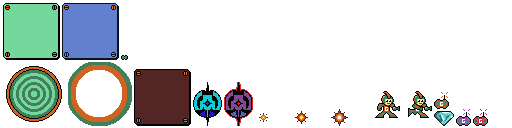
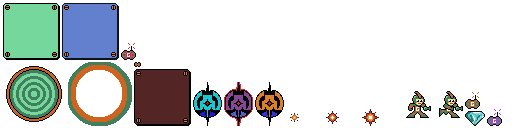
Add ranged enemy type

Changed region(s): [[0.5, 0.6562, 1.0, 1.0], [0.2188, 0.375, 0.2812, 0.5312]]

diff --git a/core/src/main/java/com/sixmoney/gigagal/entities/Enemy.java b/core/src/main/java/com/sixmoney/gigagal/entities/Enemy.java
@@ -6,6 +6,7 @@ import com.badlogic.gdx.math.MathUtils;
 import com.badlogic.gdx.math.Rectangle;
 import com.badlogic.gdx.math.Vector2;
 import com.badlogic.gdx.utils.TimeUtils;
+import com.sixmoney.gigagal.Level;
 import com.sixmoney.gigagal.utils.Assets;
 import com.sixmoney.gigagal.utils.Constants;
 import com.sixmoney.gigagal.utils.Enums.*;
@@ -24,12 +25,16 @@ public class Enemy {
     protected float speed;
     protected float speedCharge;
     protected boolean charging;
+    protected boolean ranged;
+    protected Level level;
+    protected long shootStartTime;
 
     public Vector2 position;
     public Rectangle enemy_bounding_box;
 
-    public Enemy(Platform platform) {
+    public Enemy(Platform platform, Level level) {
         this.platform = platform;
+        this.level = level;
         position = new Vector2(MathUtils.random(platform.left, platform.left + platform.width), platform.top + Constants.ENEMY_CENTER_POS.y);
         if (MathUtils.randomBoolean()) {
             direction = Direction.LEFT;
@@ -38,10 +43,12 @@ public class Enemy {
         }
         start_time = TimeUtils.nanoTime();
         this.health = Constants.ENEMY_HEALTH;
+        ranged = false;
         random_phase = MathUtils.random();
         charging = false;
         speed = MathUtils.random(Constants.ENEMY_SPEED, Constants.ENEMY_SPEED * 1.5f);
         speedCharge = Constants.ENEMY_SPEED_CHARGE;
+        shootStartTime = TimeUtils.nanoTime();
         enemy_bounding_box = new Rectangle(
                 position.x - Constants.ENEMY_COLLISION_RADIUS,
                 position.y - Constants.ENEMY_COLLISION_RADIUS,
@@ -60,17 +67,24 @@ public class Enemy {
 
     public void update(float delta) {
         if (platform.hasPlayer) {
-            charging = true;
-            float move_distance = delta * speedCharge;
-            if (platform.playerPosition < position.x - platform.left) {
-                direction = Direction.LEFT;
+            if (ranged) {
+                if (Utils.secondsSince(shootStartTime) > Constants.LAZER_SHOOT_DELAY) {
+                    shootStartTime = TimeUtils.nanoTime();
+                    shoot();
+                }
             } else {
-                direction = Direction.RIGHT;
-            }
-            if (direction == Direction.LEFT) {
-                position.x -= move_distance;
-            } else {
-                position.x += move_distance;
+                charging = true;
+                float move_distance = delta * speedCharge;
+                if (platform.playerPosition < position.x - platform.left) {
+                    direction = Direction.LEFT;
+                } else {
+                    direction = Direction.RIGHT;
+                }
+                if (direction == Direction.LEFT) {
+                    position.x -= move_distance;
+                } else {
+                    position.x += move_distance;
+                }
             }
         } else {
             charging = false;
@@ -115,5 +129,8 @@ public class Enemy {
                 enemy_bounding_box.width,
                 enemy_bounding_box.height
         );
+    }
+
+    public void shoot() {
     }
 }

diff --git a/core/src/main/java/com/sixmoney/gigagal/entities/EnemyRanged.java b/core/src/main/java/com/sixmoney/gigagal/entities/EnemyRanged.java
@@ -1,0 +1,37 @@
+package com.sixmoney.gigagal.entities;
+
+import com.badlogic.gdx.graphics.g2d.SpriteBatch;
+import com.badlogic.gdx.math.Vector2;
+import com.sixmoney.gigagal.Level;
+import com.sixmoney.gigagal.utils.Assets;
+import com.sixmoney.gigagal.utils.Constants;
+import com.sixmoney.gigagal.utils.Enums;
+import com.sixmoney.gigagal.utils.Utils;
+
+public class EnemyRanged extends Enemy {
+    public EnemyRanged(Platform platform, Level level) {
+        super(platform, level);
+        ranged = true;
+    }
+
+    public void render(SpriteBatch spriteBatch) {
+        if (charging && direction == Enums.Direction.LEFT) {
+            Utils.drawTextureRegion(spriteBatch, Assets.get_instance().enemyAssets.enemy3, position.x - Constants.ENEMY_CENTER_POS.x, position.y - Constants.ENEMY_CENTER_POS.y, 30);
+        } else if (charging && direction == Enums.Direction.RIGHT) {
+            Utils.drawTextureRegion(spriteBatch, Assets.get_instance().enemyAssets.enemy3, position.x - Constants.ENEMY_CENTER_POS.x, position.y - Constants.ENEMY_CENTER_POS.y, -30);
+        } else {
+            Utils.drawTextureRegion(spriteBatch, Assets.get_instance().enemyAssets.enemy3, position.x - Constants.ENEMY_CENTER_POS.x, position.y - Constants.ENEMY_CENTER_POS.y);
+        }
+    }
+
+    @Override
+    public void shoot() {
+        Enums.Direction shootDirection;
+        if (platform.playerPosition < position.x - platform.left) {
+             shootDirection = Enums.Direction.LEFT;
+        } else {
+            shootDirection = Enums.Direction.RIGHT;
+        }
+        level.getBullets().add(new Lazer(level, new Vector2(position.x, position.y - Constants.ENEMY_CENTER_POS.y / 2), shootDirection));
+    }
+}

diff --git a/core/src/main/java/com/sixmoney/gigagal/entities/Lazer.java b/core/src/main/java/com/sixmoney/gigagal/entities/Lazer.java
@@ -1,0 +1,47 @@
+package com.sixmoney.gigagal.entities;
+
+import com.badlogic.gdx.graphics.g2d.SpriteBatch;
+import com.badlogic.gdx.math.Vector2;
+import com.badlogic.gdx.math.Vector3;
+import com.sixmoney.gigagal.Level;
+import com.sixmoney.gigagal.utils.Assets;
+import com.sixmoney.gigagal.utils.Constants;
+import com.sixmoney.gigagal.utils.Enums;
+
+public class Lazer extends Bullet {
+    public Lazer(Level level, Vector2 position, Enums.Direction direction) {
+        super(level, position, direction);
+        damage = 1;
+    }
+
+    @Override
+    public void update(float delta) {
+        float movement_amount = delta * Constants.BULLET_SPEED;
+
+        if (direction == Enums.Direction.LEFT) {
+            position.x -= movement_amount;
+        } else {
+            position.x += movement_amount;
+        }
+
+
+        Vector2 bullet_center = new Vector2(position.x + Constants.BULLET_CENTER.x, position.y + Constants.BULLET_CENTER.y);
+        if (bullet_center.dst(level.gigaGal.position) < Constants.GIGAGAL_STANCE_WIDTH) {
+            playExplosion();
+            add_explosion(bullet_center);
+            active = false;
+            level.gigaGal.kill();
+        }
+
+        float viewport_width = level.getViewport().getWorldWidth();
+        Vector3 viewport_position = level.getViewport().getCamera().position;
+
+        if (position.x < viewport_position.x - viewport_width / 2 || position.x > viewport_position.x + viewport_width / 2) {
+            active = false;
+        }
+    }
+
+    public void render(SpriteBatch spriteBatch) {
+        spriteBatch.draw(Assets.get_instance().bulletAssets.lazer, position.x, position.y - Constants.BULLET_CENTER.y);
+    }
+}

diff --git a/core/src/main/java/com/sixmoney/gigagal/utils/Constants.java b/core/src/main/java/com/sixmoney/gigagal/utils/Constants.java
@@ -35,9 +35,11 @@ public class Constants {
     public static final String PLATFORM_MEDIUM = "platform-medium";
     public static final String ENEMY = "enemy";
     public static final String ENEMY2 = "enemy2";
+    public static final String ENEMY3 = "enemy3";
     public static final String BULLET = "bullet";
     public static final String BULLET2 = "bullet2";
     public static final String BULLET3 = "bullet3";
+    public static final String LAZER = "lazer";
     public static final String EXPLOSION_LARGE = "explosion-large";
     public static final String EXPLOSION_LARGER = "explosion-larger";
     public static final String EXPLOSION_LARGEST = "explosion-largest";
@@ -89,6 +91,7 @@ public class Constants {
     // bullet
     public static final Vector2 BULLET_CENTER = new Vector2(3, 2);
     public static final float BULLET_SPEED = 150f;
+    public static final float LAZER_SHOOT_DELAY = 0.6f;
 
     // explosions
     public static final Vector2 EXPLOSION_CENTER = new Vector2(14, 14);
@@ -123,6 +126,7 @@ public class Constants {
     public static final String LEVEL_IDENTIFIER_KEY = "itemIdentifier";
     public static final String LEVEL_ENEMY_TAG = "Enemy";
     public static final String LEVEL_ENEMY_BIG_TAG = "BigEnemy";
+    public static final String LEVEL_ENEMY_RANGED_TAG = "RangedEnemy";
     public static final String LEVEL_KILLPLANE_TAG = "Killplane";
     public static final int LEVEL_1 = 1;
     public static final int LEVEL_2 = 2;

diff --git a/core/src/main/java/com/sixmoney/gigagal/utils/LevelLoader.java b/core/src/main/java/com/sixmoney/gigagal/utils/LevelLoader.java
@@ -9,6 +9,7 @@ import com.badlogic.gdx.utils.JsonValue;
 import com.badlogic.gdx.utils.viewport.Viewport;
 import com.sixmoney.gigagal.Level;
 import com.sixmoney.gigagal.entities.EnemyBig;
+import com.sixmoney.gigagal.entities.EnemyRanged;
 import com.sixmoney.gigagal.entities.PowerupBig;
 import com.sixmoney.gigagal.entities.Diamond;
 import com.sixmoney.gigagal.entities.Enemy;
@@ -79,9 +80,11 @@ public class LevelLoader {
             String platform_identifier = platformObject.getString(Constants.LEVEL_IDENTIFIER_KEY, null);
 
             if (platform_identifier != null && platform_identifier.equals(Constants.LEVEL_ENEMY_TAG)) {
-                level.getEnemies().add(new Enemy(platform));
+                level.getEnemies().add(new Enemy(platform, level));
             } else if (platform_identifier != null && platform_identifier.equals(Constants.LEVEL_ENEMY_BIG_TAG)) {
-                level.getEnemies().add(new EnemyBig(platform));
+                level.getEnemies().add(new EnemyBig(platform, level));
+            } else if (platform_identifier != null && platform_identifier.equals(Constants.LEVEL_ENEMY_RANGED_TAG)) {
+                level.getEnemies().add(new EnemyRanged(platform, level));
             }
         }
 

diff --git a/core/src/main/java/com/sixmoney/gigagal/utils/Assets.java b/core/src/main/java/com/sixmoney/gigagal/utils/Assets.java
@@ -160,10 +160,12 @@ public class Assets implements Disposable, AssetErrorListener {
     public class EnemyAssets {
         public TextureAtlas.AtlasRegion enemy;
         public TextureAtlas.AtlasRegion enemy2;
+        public TextureAtlas.AtlasRegion enemy3;
 
         public EnemyAssets(TextureAtlas atlas) {
             enemy = atlas.findRegion(Constants.ENEMY);
             enemy2 = atlas.findRegion(Constants.ENEMY2);
+            enemy3 = atlas.findRegion(Constants.ENEMY3);
         }
     }
 
@@ -172,11 +174,13 @@ public class Assets implements Disposable, AssetErrorListener {
         public TextureAtlas.AtlasRegion bullet;
         public TextureAtlas.AtlasRegion bullet2;
         public TextureAtlas.AtlasRegion bullet3;
+        public TextureAtlas.AtlasRegion lazer;
 
         public BulletAssets(TextureAtlas atlas) {
             bullet = atlas.findRegion(Constants.BULLET);
             bullet2 = atlas.findRegion(Constants.BULLET2);
             bullet3 = atlas.findRegion(Constants.BULLET3);
+            lazer = atlas.findRegion(Constants.LAZER);
         }
     }
 

diff --git a/core/src/main/java/com/sixmoney/gigagal/entities/GigaGal.java b/core/src/main/java/com/sixmoney/gigagal/entities/GigaGal.java
@@ -110,12 +110,7 @@ public class GigaGal {
         );
 
         if (position.y < level.getKillplane_height()) {
-            lives -= 1;
-            if (lives <= 0) {
-                return;
-            }
-            soundManager.playSound(Constants.DEATH_SOUND_PATH);
-            respawn();
+            kill();
         }
 
         for (Platform platform: platforms) {
@@ -452,6 +447,15 @@ public class GigaGal {
 
     public void stopRunningEffect() {
         soundManager.stopSound(Constants.RUNNING_SOUND_PATH, runningEffectId);
+    }
+
+    public void kill() {
+        lives -= 1;
+        if (lives <= 0) {
+            return;
+        }
+        soundManager.playSound(Constants.DEATH_SOUND_PATH);
+        respawn();
     }
 
     public void render(SpriteBatch spriteBatch) {

diff --git a/core/src/main/java/com/sixmoney/gigagal/Level.java b/core/src/main/java/com/sixmoney/gigagal/Level.java
@@ -173,7 +173,9 @@ public class Level {
             for (Bullet bullet : bullets) {
                 bullet.update(delta);
                 if (!bullet.active) {
-                    pepBulletTrail.free(bullet.particleBulletTrail);
+                    if (bullet.particleBulletTrail != null) {
+                        pepBulletTrail.free(bullet.particleBulletTrail);
+                    }
                     bullets.removeValue(bullet, true);
 
 
@@ -264,7 +266,7 @@ public class Level {
         platforms.add(new Platform(-70, 280, 280, 10));
         platforms.add(new Platform(210, 210, 10, 10));
 
-        enemies.add(new Enemy(platforms.get(1)));
+        enemies.add(new Enemy(platforms.get(1), this));
 
         powerups.add(new Powerup(new Vector2(25, 180)));
 

diff --git a/core/src/main/java/com/sixmoney/gigagal/entities/EnemyBig.java b/core/src/main/java/com/sixmoney/gigagal/entities/EnemyBig.java
@@ -1,14 +1,15 @@
 package com.sixmoney.gigagal.entities;
 
 import com.badlogic.gdx.graphics.g2d.SpriteBatch;
+import com.sixmoney.gigagal.Level;
 import com.sixmoney.gigagal.utils.Assets;
 import com.sixmoney.gigagal.utils.Constants;
 import com.sixmoney.gigagal.utils.Enums.*;
 import com.sixmoney.gigagal.utils.Utils;
 
 public class EnemyBig extends Enemy {
-    public EnemyBig(Platform platform) {
-        super(platform);
+    public EnemyBig(Platform platform, Level level) {
+        super(platform, level);
         health = Constants.ENEMY_BIG_HEALTH;
     }
 

diff --git a/core/src/main/java/com/sixmoney/gigagal/entities/Bullet.java b/core/src/main/java/com/sixmoney/gigagal/entities/Bullet.java
@@ -90,6 +90,4 @@ public class Bullet {
         spriteBatch.draw(Assets.get_instance().bulletAssets.bullet, position.x, position.y - Constants.BULLET_CENTER.y);
         particleBulletTrail.draw(spriteBatch);
     }
-
-
 }
